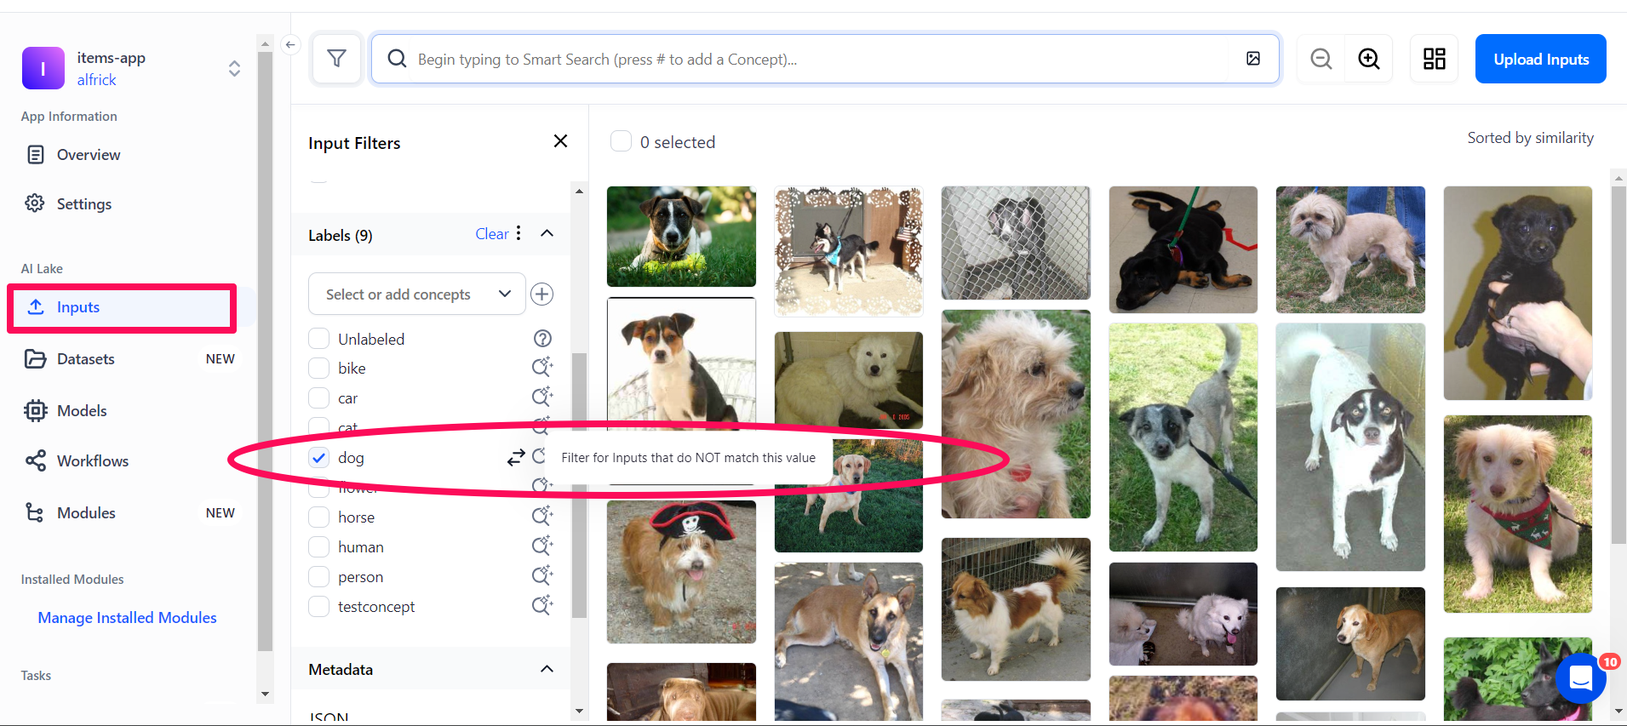
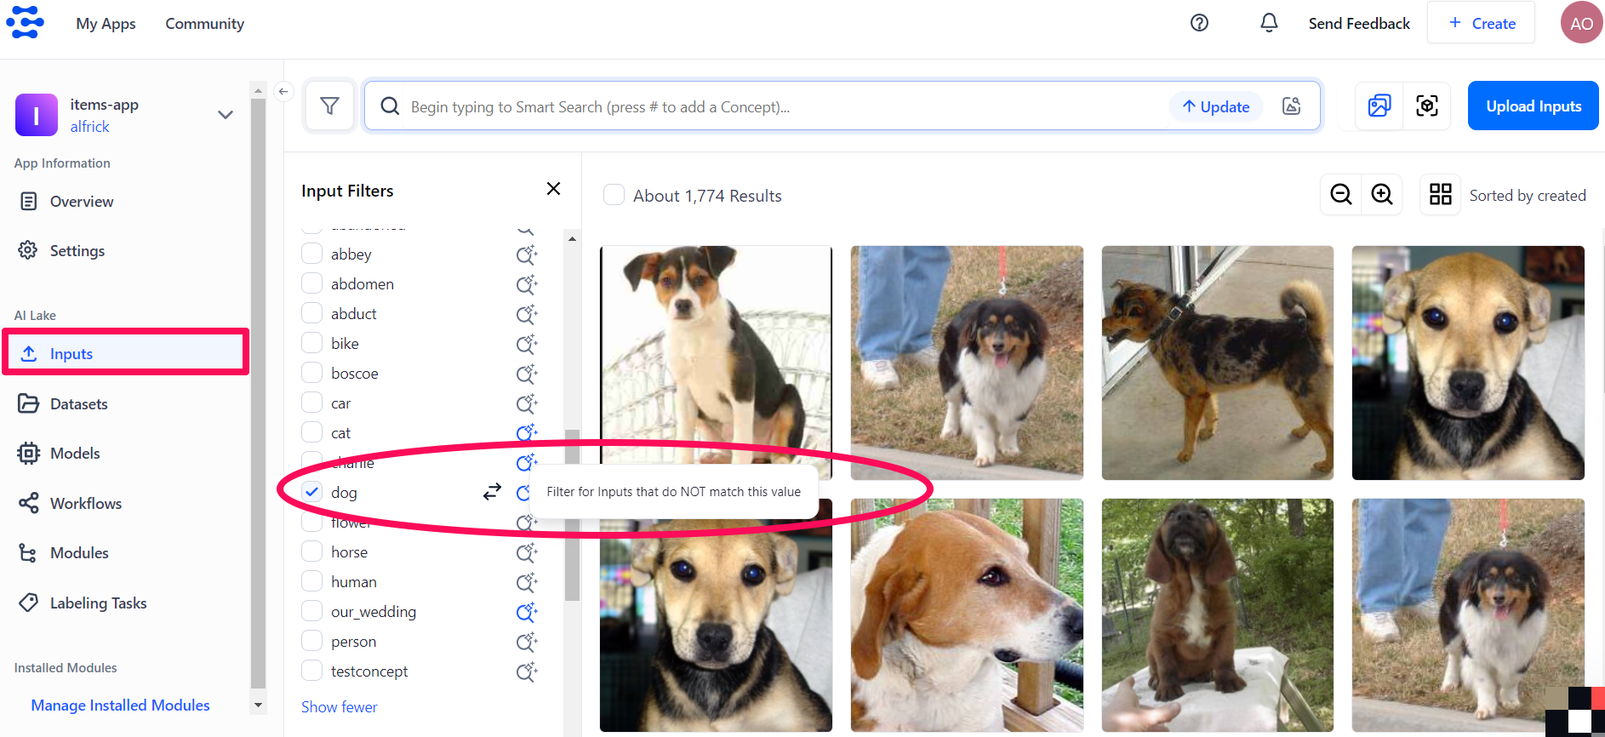
updated upcoming changes page

diff --git a/docusaurus.config.js b/docusaurus.config.js
@@ -9,8 +9,8 @@ const darkCodeTheme = themes.dracula;
 
 /** @type {import('@docusaurus/types').Config} */
 const config = {
-  title: 'Clarifai Guide',
-  tagline: 'Clarifai Guide',
+  title: 'Clarifai Docs',
+  tagline: 'Clarifai Docs',
   url: 'https://docs.clarifai.com',
   baseUrl: '/',
   onBrokenLinks: 'throw',

diff --git a/docs/portal-guide/psearch/pfilter.md b/docs/portal-guide/psearch/pfilter.md
@@ -8,25 +8,63 @@ sidebar_position: 5
 **Reduce noise by filtering out unwanted data**
 <hr />
 
-## Filter by metadata
+You can use the **Input Filters** section on the Input-Manager screen to customize how inputs are displayed. By default, inputs are sorted by creation date, with the newest at the top. 
 
-Attach additional information to your inputs as you upload them to the Clarifai platform. Add product IDs, user IDs, or any other relevant information needed to drive specific business outcomes. Metadata can be used to quickly filter your data, and can be combined with ranking criteria.
+You can filter inputs by dataset, labels, type, or metadata. You can also combine multiple filter parameters to expand your search criteria and get more refined results. 
 
-![](/img/filter_by_metadata.jpg)
+## Filter by Datasets
 
-You can even search by metadata in the single image view in Portal. Just expand the metadata window, click table, and then click the line that has the metadata you would like to use for search. The line is automatically added to the search bar and will filter your search results.
+You can filter the display of inputs based on their datasets. To do so, identify the dataset you want to display inputs for and click the checkbox next to it.
 
-![](/img/metadata_search_image_view.jpg)
+Note that the number of inputs matching your criteria will be displayed at the top of the display area.
 
-## Filter by geo-location
+![](/img/smart-search/search_24.png)
 
-Combine visual search with location-awareness to organize your data by place. Include latitude and longitude information when you upload your data, and then filter to find all inputs within a given radius. Or even define a region on the map and limit your results to the inputs within that region.
+If you want to filter out inputs that do not belong to a specific dataset, select the dataset and hover over it. Double arrows will appear with a tooltip: `Filter for inputs that do NOT match this value.` Click the double arrows to apply the negative filter. You’ll notice that the word **NOT** will be added next to the dataset's name, and the filter results will be populated on the page.
 
-![](/img/filter_by_geolocation.jpg)
+Additionally, you can use the "Unassigned" parameter to filter all inputs that have not been assigned to any dataset.
 
-## Filter by annotations
+:::tip
 
-Annotations are the human-labeled concepts on your inputs. Typically part of your "training" dataset, these inputs are indexed alongside model predictions and similarity search information. Collaboration tools make it easy to track annotations done by different team members.
+To reset any applied filters, click the **Clear** button that appears after applying the filters.
 
-![](/img/filter_by_annotations.jpg)
+:::
 
+## Filter by Labels
+
+You can filter the display of inputs based on their labeled concepts. To do so, identify the concept you want to display inputs for and click the checkbox next to it.
+
+You can also filter out inputs that do not belong to a specific concept, as illustrated earlier. 
+
+Additionally, you can use the "Unlabeled" parameter to filter all inputs that have not been annotated with any concept.
+
+![](/img/smart-search/search_25.png)
+
+You can also click the ellipsis next to the **Labels** section to reveal additional options for filtering the display of your inputs. 
+
+You can filter the display by these parameters:
+
+- **Operator** — You can specify either the `or` (default) or `and` operator to determine how this filter should be applied when multiple values are selected. 
+
+    - Choosing `or` will filter for inputs that match _any_ of the selected values.
+    - Choosing `and` will return only the inputs that match _all_ the selected values.
+
+    Note that this setting does not affect how negated values are interpreted. Inputs matching any negated selections are always removed after those matching the positively selected values have been identified.
+
+-	**[Labeler](https://docs.clarifai.com/portal-guide/annotate/create-a-task/#step-6-add-collaborators)** —  You can filter the display by the labeler who annotated the inputs. By default, inputs from all labelers are shown. 
+
+-	**[Status](https://docs.clarifai.com/api-guide/advanced-topics/status-codes/#annotation-related-codes-24xxx)** — You can filter the display based on the status of the annotation exercise. The available options are `Success` (default), `Awaiting Review`, `Awaiting Consensus Review`, or `Pending`. 
+
+## Filter by Input Type
+
+You can filter the display of inputs based on their types — audio, image, text, and video. 
+
+![](/img/smart-search/search_26.png)
+
+## Filter by Metadata
+
+You can filter the display of inputs based on their custom metadata. Note that the metadata should be a valid JSON object. 
+
+Metadata are additional pieces of information you attach to your inputs when uploading them to the Clarifai platform. This can include product IDs, user IDs, or any other relevant details necessary for achieving specific business outcomes. You can use metadata to quickly filter your data and combine it with other ranking criteria.
+
+![](/img/smart-search/search_27.png)

diff --git a/docs/product-updates/upcoming-api-changes/pat-api-keys.md b/docs/product-updates/upcoming-api-changes/pat-api-keys.md
@@ -9,9 +9,9 @@ sidebar_position: -8
 **Learn about breaking changes to the use of PATs and API keys**
 <hr />
 
-## Date
+## Implementation Date
 
-August 6th, 2024
+October 1st, 2024
 
 ## Change
 
@@ -19,7 +19,7 @@ August 6th, 2024
 
 ## Details
 
-An upcoming release of Clarifai’s API, 10.7, will significantly change how Personal Access Tokens (PATs) and API keys work. We plan to implement this change on August 6th, 2024, providing 45 days to change the way your applications authenticate on our platform.  
+An upcoming release of Clarifai’s API, **10.9**, will significantly change how [Personal Access Tokens (PATs)](https://docs.clarifai.com/clarifai-basics/authentication/personal-access-tokens/) and [API keys](https://docs.clarifai.com/clarifai-basics/authentication/app-specific-api-keys/) work. We plan to implement this change on October 1st, 2024, providing more than 45 days to change the way your applications authenticate on our platform.  
 
 #### Terminology
 
@@ -35,9 +35,9 @@ Previously, you could use API keys to access any model, concept, or workflow own
 
 To be specific:
 
-- You must now use [PATs](https://docs.clarifai.com/clarifai-basics/authentication/personal-access-tokens) to make API calls for resources that are outside the scope of your apps, such as Clarifai’s models and workflows. While using a PAT, you must also specify the `USER_ID` of the application owner, and the `APP_ID` of the application that you’re accessing. The legacy behavior allowed you to use the `USER_ID` and `APP_ID` of any application on the platform to access Clarifai models and workflows in the app "main". This change requires you to specify the `USER_ID` (clarifai) and `APP_ID` (main) associated with the application containing the resource (model, concept, workflow, etc).
+- You must now use PATs to make API calls for resources that are outside the scope of your apps, such as Clarifai’s models and workflows. While using a PAT, you must also specify the `USER_ID` of the application owner, and the `APP_ID` of the application that you’re accessing. The legacy behavior allowed you to use the `USER_ID` and `APP_ID` of any application on the platform to access Clarifai models and workflows in the app "main". This change requires you to specify the `USER_ID` (clarifai) and `APP_ID` (main) associated with the application containing the resource (model, concept, workflow, etc).
 
-- You will no longer be able to use [API keys](https://docs.clarifai.com/clarifai-basics/authentication/app-specific-api-keys) to access resources outside the application the API key is created in. With a key, there is no need to specify the user_id or the app_id as they are already part of the key. API keys will function as normal when accessing resources within the application the key is created in, but will no longer allow access to resources owned by the user `clarifai` in the application `main`.
+- You will no longer be able to use API keys to access resources outside the application the API key is created in. With a key, there is no need to specify the user_id or the app_id as they are already part of the key. API keys will function as normal when accessing resources within the application the key is created in, but will no longer allow access to resources owned by the user `clarifai` in the application `main`.
 
 - Since workflows are a collection of models, some of which may be references to models that are not in the same application as the workflow itself, you should also use PATs to interact with workflows. While API keys will still work for the time being for workflows in the same app as the API key that contains only models from that same app, this will be a very narrow use of workflows. Therefore, we recommend updating your code to use PATs when using workflows too.
 
@@ -47,6 +47,6 @@ We hope and expect that this will not be a significant change for you. In order 
 
 The best place to contact us for support questions is our [Discord Server](https://discord.gg/WgUvPK4pVD), which is monitored by many of our support teams and is the fastest way to get help.
 
-We do apologize for any inconvenience this causes, however, we are confident that this is a positive change that will simplify the usage of the platform going forward and make it easier to leverage AI created by other people on our platform!
+We do apologize for any inconvenience this causes; however, we are confident that this is a positive change that will simplify the usage of the platform going forward and make it easier to leverage AI created by other people on our platform!
 
 Thank you for your understanding and please feel free to reach out for any help.

diff --git a/docs/portal-guide/psearch/visual-search.md b/docs/portal-guide/psearch/visual-search.md
@@ -18,9 +18,9 @@ Here's how our Smart Image Search feature works:
 
 - **Similarity ranking**: We retrieve the images that are most similar to the query image based on their image embeddings. The ranking of the retrieved images is typically determined by the similarity scores between the query image and each of the retrieved images. Our vector search engine ranks images with higher similarity scores higher and considers them more visually similar to the query. 
 
-Let’s demonstrate how you can carry out different types of Smart Image Search on our Portal. 
+Let’s demonstrate how you can carry out different types of Smart Image Searches. 
 
-Start by going to your app and selecting the **Inputs** option on the collapsible left sidebar. You’ll be redirected to the Inputs Manager page where you can see the inputs available on your app. 
+Start by going to your app and selecting the **Inputs** option in the collapsible left sidebar. You’ll be redirected to the Input-Manager page, where you can see the inputs available on your app. 
 
 You can then perform various image search actions on them. 
 
@@ -28,11 +28,35 @@ You can then perform various image search actions on them.
 
 This feature is also called Image Similarity Search or Reverse Image Search. It allows you to rank, sort, and retrieve images based on their visual similarity to a provided query image. 
 
-If you hover over the image you want to use to perform the visual similarity search, some icons will appear on the left side of the image. Click the magnifying glass icon. 
+There are two ways you can use to perform this type of search. 
+
+### Search by Uploading an Image
+
+To upload an image to be used for search, click the **Visual Search** button at the right end of the inputs search bar. In the menu that drops down, upload the image you want to use. You can upload the image from your local storage, drag and drop it, or paste its publicly accessible URL.
+
+The image should be in one of the following supported formats: SVG, PNG, JPG, or GIF, with a maximum size of 800 pixels by 400 pixels.
+
+![](/img/smart-search/search_14.png)
+
+A pop-up will appear, which allows you to crop the area of interest in the image. The search results will include images that resemble the cropped area of your provided image.
+
+After cropping the image, select the **Find visually similar Images** option (which is the default), and click the **Search inputs** button.
+
+![](/img/smart-search/search_15.png)
+
+A thumbnail of the cropped image will be added to the inputs search bar and your search results will be displayed in a ranking fashion — from the most visually similar to the least visually similar.
+
+![](/img/smart-search/search_16.png)
+
+### Search by an Already Uploaded Image
+
+If you hover over an already uploaded image you want to use to perform the visual similarity search, some icons will appear on the left side of the image. 
+
+Click the magnifying glass icon. 
 
 ![smart image search by visual similarity](/img/smart-search/search_1.png)
 
-A thumbnail of the image will be added to the inputs search bar and your search results will be displayed in a ranking fashion—from the most visually similar to the least visually similar.
+A thumbnail of the image will be added to the inputs search bar and your search results will be displayed in a ranking fashion — from the most visually similar to the least visually similar.
 
 ![smart image search results](/img/smart-search/search_2.png)
 
@@ -54,7 +78,7 @@ Choose the concept you want to search for, and your results will be displayed on
 
 You can rank, sort, and retrieve images based on a predicted match to a query caption text. You just need to provide a caption text that best describes the images you want to search for, and the most relevant matches associated with that query will be displayed.
 
-Performing searches using full texts allow you to provide a much more in-depth context and retrieve more relevant results—as compared to other types of searches. 
+Performing searches using full texts allow you to provide a much more in-depth context and retrieve more relevant results — as compared to other types of searches. 
 
 :::info
 

diff --git a/docs/portal-guide/psearch/prank.md b/docs/portal-guide/psearch/prank.md
@@ -20,4 +20,56 @@ Here's how our Smart Object Search feature works:
 
 - **Similarity ranking**: We retrieve the annotated objects that are most visually similar to the query object based on their object embeddings. The ranking of the retrieved objects is determined by the similarity scores between the query object and each of the retrieved objects. Our vector search engine ranks objects with higher similarity scores higher and considers them more visually similar to the query.
 
+Let’s demonstrate how you can carry out different types of Smart Object Searches.
 
+Start by going to your app and selecting the **Inputs** option in the collapsible left sidebar. You’ll be redirected to the Input-Manager page. 
+
+Then, click the **Object Mode** button in the upper-right section of the Input-Manager screen. This will display a gallery of objects that have been labeled on your inputs.
+
+![](/img/smart-search/search_17.png)
+
+You can then perform various object search actions on the screen.
+
+## Smart Object Search by Visual Similarity
+
+This feature is also called Object Similarity Search or Reverse Object Search. It allows you to rank, sort, and retrieve objects based on their visual similarity to a provided query image. 
+
+There are two ways you can use to perform this type of search. 
+
+### Search by Uploading an Image
+
+To upload an image to be used for search, click the **Visual Search** button at the right end of the inputs search bar. In the menu that drops down, upload the image you want to use. You can upload the image from your local storage, drag and drop it, or paste its publicly accessible URL.
+
+> The image should be in one of the following supported formats: SVG, PNG, JPG, or GIF, with a maximum size of 800 pixels by 400 pixels.
+
+![](/img/smart-search/search_18.png)
+
+A pop-up will appear, which allows you to crop the area of interest in the image. The search results will include annotated objects from within images that resemble the cropped area of your provided image.
+
+After cropping the image, select the **Find visually similar Object** option, and click the **Search inputs** button.
+
+![](/img/smart-search/search_19.png)
+
+A thumbnail of the cropped image will be added to the inputs search bar and your search results will be displayed in a ranking fashion — from the most visually similar to the least visually similar.
+
+![](/img/smart-search/search_20.png)
+
+### Search by an Already Annotated Image
+
+If you hover over an already annotated image you want to use to perform the visual similarity search, some icons will appear on the left side of the image. 
+
+Click the magnifying glass icon. 
+
+![smart object search by visual similarity](/img/smart-search/search_21.png)
+
+A thumbnail of the image will be added to the inputs search bar and your annotated search results will be displayed in a ranking fashion — from the most visually similar to the least visually similar.
+
+![smart object search results](/img/smart-search/search_22.png)
+
+## Smart Object Search by Concept
+
+You can rank, sort, and retrieve objects based on the [concepts](https://docs.clarifai.com/portal-guide/concepts/create-get-update-delete) used for annotating them. Just provide a query concept and the most relevant matches associated with that concept will be displayed. 
+
+Go to the inputs search bar, add an hashtag (#), and type the concept you want to search for. After performing the search, the annotated objects will be displayed within the page based on their content and similarity. 
+
+![smart object search results](/img/smart-search/search_23.png)

diff --git a/docs/portal-guide/ppredict.md b/docs/portal-guide/ppredict.md
@@ -8,13 +8,13 @@ sidebar_position: 3
 **Dynamic AI model orchestration and inference scaling**
 <hr />
 
-You can use the Clarifai portal to analyze your inputs and understand what's inside of them. The portal will return a list of [concepts](https://docs.clarifai.com/portal-guide/concepts/create-get-update-delete) with corresponding probabilities of how likely these concepts are contained within the provided inputs.
+The Clarifai platform allows you to analyze your inputs and understand what's inside of them. You can make predictions using public or custom models and workflows. 
 
-Predictions are ready the moment you upload an input. You can make predictions using public or custom models and workflows. You can search for your preferred models on the [Community platform](https://clarifai.com/explore) and use them to make predictions. 
+For example, you can select a model from the [Community platform](https://clarifai.com/explore/models) and use it to generate predictions. Such a model could return a list of [concepts](https://docs.clarifai.com/portal-guide/concepts/create-get-update-delete) with corresponding probabilities of how likely these concepts are contained within the provided inputs.
 
-## Example
+## How to Predict Using a Model
 
-You can use the pre-built Clarifai's [general-image-recognition](https://clarifai.com/clarifai/main/models/general-image-recognition) model to identify a variety of concepts in images. 
+Let's say you want to use the pre-built Clarifai's [general-image-recognition](https://clarifai.com/clarifai/main/models/general-image-recognition) model to identify a variety of concepts in images. 
 
 To do so, navigate to the model’s viewer screen and click the blue **Try your own images or videos** button. A modal will pop up, providing a convenient interface for adding input data and examining predictions.
 
@@ -24,11 +24,11 @@ The modal provides three distinct options for making predictions.
 
 ### Try Your Own Images or Videos
 
-This option lets you add an input and see its predictions without leaving the Model-Viewer screen. If you click the button, a small window will pop up, allowing you to upload your input.
+This option lets you add an input and see its predictions without leaving that model viewer screen. If you click the button, a small window will pop up, allowing you to upload your input.
 
 ![](/img/community_2/model_predictions-2.png)
 
-After uploading the image, the model will analyze it and return a list of concepts identified on the right-hand side of the page. 
+After uploading the image, the model will analyze it and return a list of concepts identified on the right side of the page. 
 
 ### Batch Predict on App Inputs
 
@@ -44,14 +44,9 @@ You’ll be redirected to the Input-Viewer screen with the default mode set to P
 
 ### Add Public Preview Examples
 
-This option lets model owners add public preview examples. It's only visible on the Model-Viewer screen of a model you own. 
+This option lets model owners add public preview examples. It's only visible on the model viewer screen of a model you own. 
 
 If you click the button, a small window will pop up, allowing you to add public prediction examples for anyone who wants to see how your model works. 
 
 ![](/img/community_2/model_predictions-5.png)
 
-:::info
-
-[Click here](https://docs.clarifai.com/clarifai-basics/quick-start/your-first-predictions/) to learn more about how to make predictions using custom or public models and workflows. 
-
-:::

diff --git a/docs/portal-guide/psearch/pcombine_or_negate.md b/docs/portal-guide/psearch/pcombine_or_negate.md
@@ -8,29 +8,34 @@ sidebar_position: 4
 **Add or subtract items from your search query**
 <hr />
 
+Let's demonstrate how you can perform combined and negative searches on the Input-Manager screen. 
+
+Go to your app and select the **Inputs** option on the collapsible left sidebar. You’ll be redirected to the Input-Manager page, where you can see the inputs available in your app. 
+
 ## Negate Search Criteria
 
 You can find all the data that is NOT similar to a given criteria. 
 
-To do so, go to your app and select the **Inputs** option on the collapsible left sidebar. You’ll be redirected to the Inputs Manager page where you can see the inputs available on your app. 
+On the **Labels** section on the Input-Manager screen, identify the concept you want to find its negative values and click the checkbox next to it. For example, let's search for all inputs that are NOT annotated as “dog”. 
 
-Next, on the **Labels** section, identify the concept you want to find its negative values and click the checkbox next to it. 
+After selecting the concept, hover over it. Double arrows will appear with the following tooltip: `Filter for inputs that do NOT match this value`. 
 
-After selecting the concept, hover over it. Double arrows will appear with the following tooltip: *Filter for inputs that do NOT match this value*. Click the double arrows. 
+Click the double arrows to perform the negative search. 
 
 ![smart image search results](/img/smart-search/search_8.png)
 
-You’ll notice that the word **NOT** will be added to the concept, and the search results will be populated on the page.
-
-For example, you can search for all inputs that are NOT annotated as “dog”. 
+You’ll notice that the word **NOT** will be added to the concept, and the search results will be populated on the page. 
 
 ![smart image search results](/img/smart-search/search_9.png)
 
 ## Combine Search Criteria
 
-You can add together multiple search parameters to expand your search. You can even combine negated search terms for more advanced tasks.
+You can add multiple search parameters that expand your search criteria. You can even combine negated search terms for more advanced tasks. 
+
+Combining search criteria always uses the "AND" operation. "OR" is not an option.
 
 For example, you can combine two concepts and search by them.
 
-Combining search criteria always uses the "AND" operation. "OR" is not an option.
+![smart image search results](/img/smart-search/search_13.png)
+
 

diff --git a/docs/portal-guide/psearch/text-search.md b/docs/portal-guide/psearch/text-search.md
@@ -20,15 +20,15 @@ Here's how our Smart Text Search feature works:
 
 - **Similarity ranking**: We retrieve text data that is most similar to the query text based on their text embeddings. The ranking of the retrieved text documents is typically determined by the similarity scores between the query text and each of the retrieved texts. Our vector search engine ranks texts with higher similarity scores higher and considers them more semantically similar to the query.
 
-Let’s demonstrate how you can carry out different types of Smart Text Search on our Portal. 
+Let’s demonstrate how you can carry out different types of Smart Text Searches.  
 
-Start by going to your app and selecting the **Inputs** option on the collapsible left sidebar. You’ll be redirected to the Inputs Manager page where you can see the text inputs available on your app. 
+Start by going to your app and selecting the **Inputs** option in the collapsible left sidebar. You’ll be redirected to the Input-Manager page, where you can see the text inputs available on your app. 
 
 You can then perform various text search actions on them. 
 
 :::tip
 
-To perform text searches successfully, you should choose a workflow that includes a text embedder and a clusterer, such as the Language-Understanding workflow, as the [base workflow](https://docs.clarifai.com/clarifai-basics/applications/application-settings#base-workflow) for your application.
+To perform text searches successfully, you should choose a workflow that includes a text embedder and a clusterer, such as the [Text](https://clarifai.com/clarifai/main/workflows/Text) workflow, as the [base workflow](https://docs.clarifai.com/portal-guide/workflows/base-workflows/) for your application.
 
 :::
 

diff --git a/docs/portal-guide/annotate/auto-annotation.md b/docs/portal-guide/annotate/auto-annotation.md
@@ -28,6 +28,14 @@ Auto-annotation is a versatile feature designed to streamline data labeling proc
 
 :::
 
+Here is a video that showcases how to perform auto-annotation:
+
+<div style={{ "position":"relative","width": "100%","overflow": "hidden","padding-top": "56.25%"}}>
+<iframe width="900" height="500" style={{"position": "absolute","top": "0","left": "0","bottom": "0","right": "0","width": "100%","height": "100%",}} src="https://www.youtube.com/embed/CD25FaeqVRc" title="Auto Annotate Your Entire Data with a Single Click: Auto Annotation Explained!" frameborder="0" allow="accelerometer; autoplay; clipboard-write; encrypted-media; gyroscope; picture-in-picture; web-share" referrerpolicy="strict-origin-when-cross-origin" allowfullscreen></iframe>
+</div>
+
+<br/><br/>
+
 Let’s demonstrate how you can set up auto-annotation when creating labeling tasks. 
 
 ## Prerequisites

diff --git a/docs/glossary/general-ai.md b/docs/glossary/general-ai.md
@@ -856,7 +856,9 @@ Language models that predict the probability of which words make the most sense 
 
 ### Metadata
 
-Information about an analog or digital object, a component of an object, or a coherent collection of objects. Metadata describing digital content is often structured (e.g., with tagging or markup). 
+Metadata are additional pieces of information you attach to your inputs when uploading them to the Clarifai platform. This can include product IDs, user IDs, or any other relevant details necessary for achieving specific business outcomes. Note that the metadata should be a valid JSON object.
+
+For example, you can use metadata to quickly filter your data and combine it with other ranking criteria.
 
 ### Misclassification Rate 
 

diff --git a/docs/api-guide/predict/text.md b/docs/api-guide/predict/text.md
@@ -225,12 +225,9 @@ Below is an example of how you would perform text-to-image generation using the 
 
 </Tabs>
 
-<details>
-  <summary>Image Output Example</summary>
+Here is a generated output example:
 
-   ![generated image output](/img/others/gen-image_200.jpg)
-
-</details>
+![generated image output example](/img/others/gen-image_200.jpg)
 
 ## Text-to-Speech Generation
 
